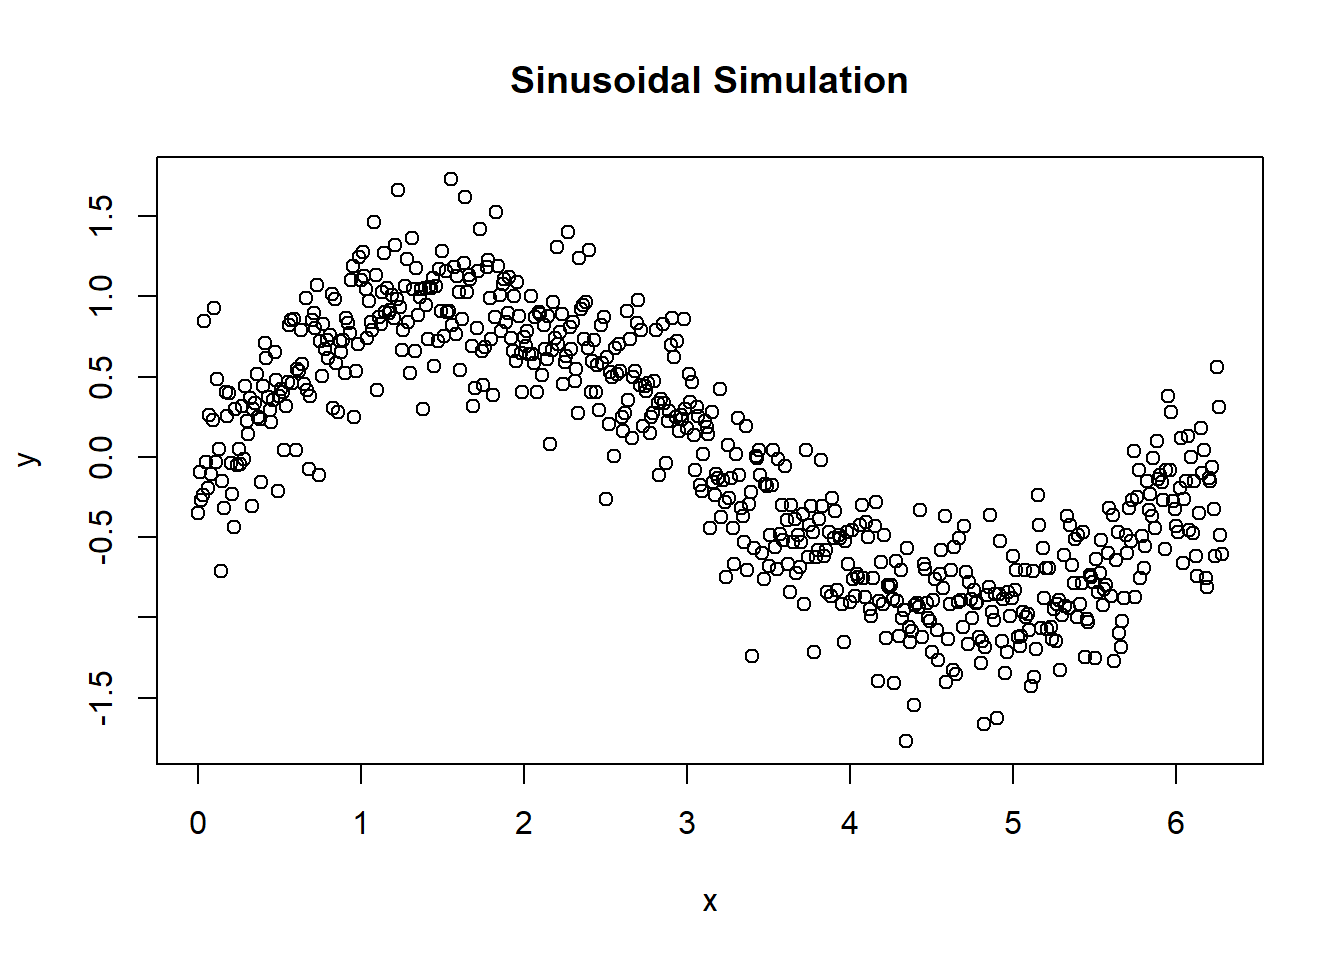
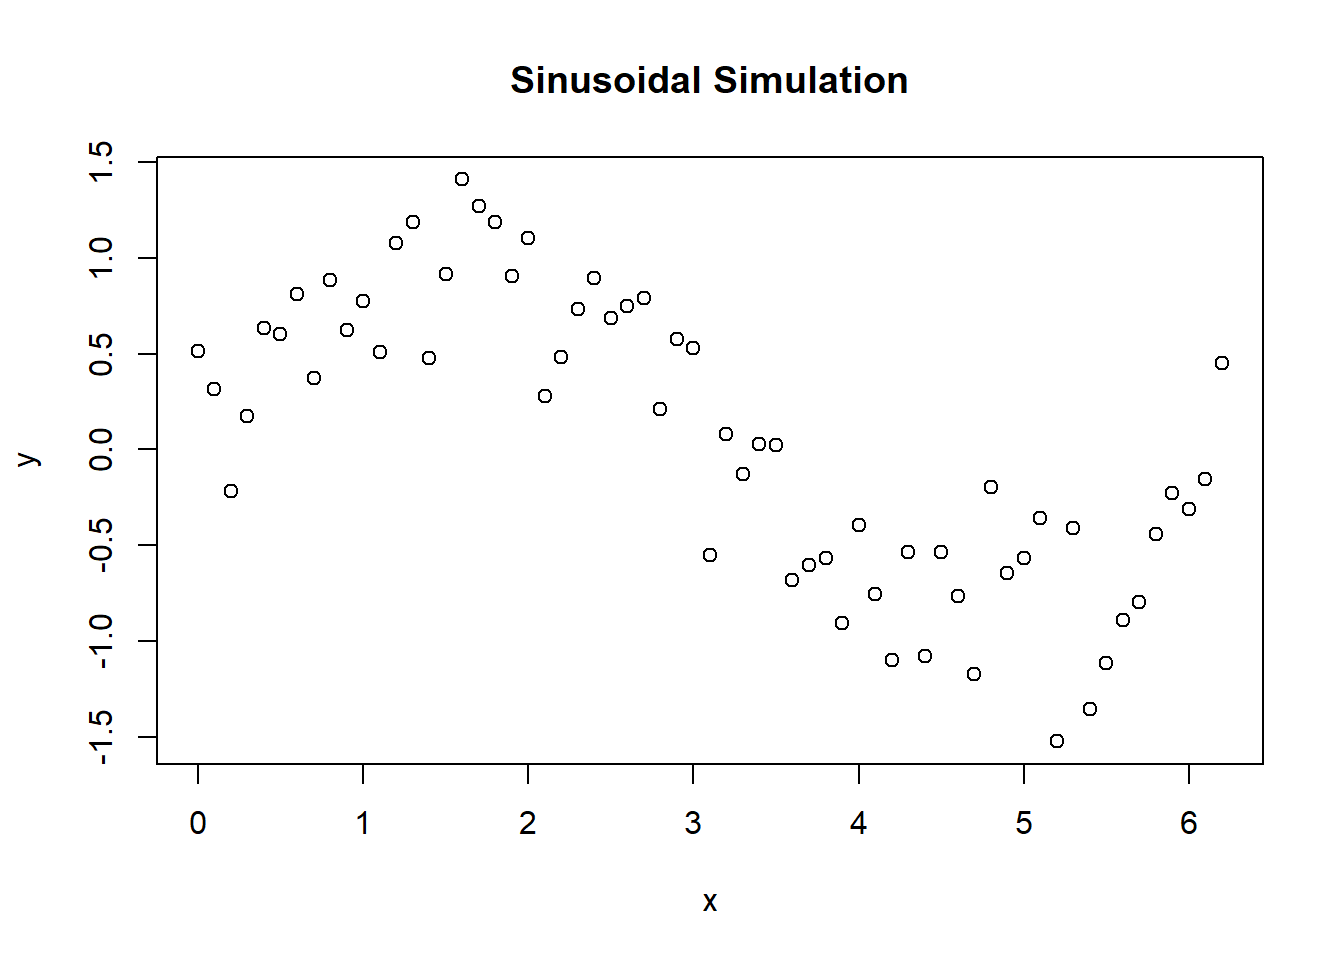
Add data and preprocessing

diff --git a/docs/index.html b/docs/index.html
@@ -7,7 +7,7 @@
 <meta name="viewport" content="width=device-width, initial-scale=1.0, user-scalable=yes">
 
 <meta name="author" content="Ashley Dickson">
-<meta name="dcterms.date" content="2026-11-04">
+<meta name="dcterms.date" content="2025-04-23">
 
 <title>Heart Failure Analysis</title>
 <style>
@@ -154,6 +154,10 @@ pre > code.sourceCode > span > a:first-child::before { text-decoration: underlin
   <li><a href="#environment" id="toc-environment" class="nav-link" data-scroll-target="#environment">Environment</a></li>
   <li><a href="#data" id="toc-data" class="nav-link" data-scroll-target="#data">Data</a></li>
   </ul></li>
+  <li><a href="#modelling" id="toc-modelling" class="nav-link" data-scroll-target="#modelling">Modelling</a>
+  <ul class="collapse">
+  <li><a href="#full-model" id="toc-full-model" class="nav-link" data-scroll-target="#full-model">Full Model</a></li>
+  </ul></li>
   </ul>
 </nav>
     </div>
@@ -180,7 +184,7 @@ pre > code.sourceCode > span > a:first-child::before { text-decoration: underlin
     <div>
     <div class="quarto-title-meta-heading">Published</div>
     <div class="quarto-title-meta-contents">
-      <p class="date">November 4, 2026</p>
+      <p class="date">April 23, 2025</p>
     </div>
   </div>
   
@@ -206,17 +210,12 @@ pre > code.sourceCode > span > a:first-child::before { text-decoration: underlin
 <span id="cb1-2"><a href="#cb1-2" aria-hidden="true" tabindex="-1"></a><span class="fu">library</span>(dplyr)</span>
 <span id="cb1-3"><a href="#cb1-3" aria-hidden="true" tabindex="-1"></a><span class="fu">library</span>(readxl)</span>
 <span id="cb1-4"><a href="#cb1-4" aria-hidden="true" tabindex="-1"></a><span class="fu">library</span>(tidyverse)</span>
-<span id="cb1-5"><a href="#cb1-5" aria-hidden="true" tabindex="-1"></a><span class="fu">library</span>(cardx)</span>
-<span id="cb1-6"><a href="#cb1-6" aria-hidden="true" tabindex="-1"></a><span class="fu">library</span>(gtsummary)</span>
-<span id="cb1-7"><a href="#cb1-7" aria-hidden="true" tabindex="-1"></a><span class="fu">library</span>(ggplot2)</span>
-<span id="cb1-8"><a href="#cb1-8" aria-hidden="true" tabindex="-1"></a><span class="fu">library</span>(GGally)</span>
-<span id="cb1-9"><a href="#cb1-9" aria-hidden="true" tabindex="-1"></a><span class="fu">library</span>(splines)</span>
-<span id="cb1-10"><a href="#cb1-10" aria-hidden="true" tabindex="-1"></a><span class="fu">library</span>(broom)</span>
-<span id="cb1-11"><a href="#cb1-11" aria-hidden="true" tabindex="-1"></a><span class="fu">library</span>(pROC)</span>
-<span id="cb1-12"><a href="#cb1-12" aria-hidden="true" tabindex="-1"></a><span class="fu">library</span>(caret)</span>
-<span id="cb1-13"><a href="#cb1-13" aria-hidden="true" tabindex="-1"></a><span class="fu">library</span>(corrplot)</span>
-<span id="cb1-14"><a href="#cb1-14" aria-hidden="true" tabindex="-1"></a><span class="fu">library</span>(CalibrationCurves)</span>
-<span id="cb1-15"><a href="#cb1-15" aria-hidden="true" tabindex="-1"></a><span class="fu">library</span>(knitr)</span></code><button title="Copy to Clipboard" class="code-copy-button"><i class="bi"></i></button></pre></div>
+<span id="cb1-5"><a href="#cb1-5" aria-hidden="true" tabindex="-1"></a><span class="fu">library</span>(gtsummary)</span>
+<span id="cb1-6"><a href="#cb1-6" aria-hidden="true" tabindex="-1"></a><span class="fu">library</span>(ggplot2)</span>
+<span id="cb1-7"><a href="#cb1-7" aria-hidden="true" tabindex="-1"></a><span class="fu">library</span>(splines)</span>
+<span id="cb1-8"><a href="#cb1-8" aria-hidden="true" tabindex="-1"></a><span class="fu">library</span>(broom)</span>
+<span id="cb1-9"><a href="#cb1-9" aria-hidden="true" tabindex="-1"></a><span class="fu">library</span>(pROC)</span>
+<span id="cb1-10"><a href="#cb1-10" aria-hidden="true" tabindex="-1"></a><span class="fu">library</span>(knitr)</span></code><button title="Copy to Clipboard" class="code-copy-button"><i class="bi"></i></button></pre></div>
 </div>
 </section>
 <section id="data" class="level2">
@@ -224,56 +223,91 @@ pre > code.sourceCode > span > a:first-child::before { text-decoration: underlin
 <p>Having loaded the various libraries needed, let’s import our heart failure data.</p>
 <div class="cell">
 <div class="sourceCode cell-code" id="cb2"><pre class="sourceCode r code-with-copy"><code class="sourceCode r"><span id="cb2-1"><a href="#cb2-1" aria-hidden="true" tabindex="-1"></a><span class="fu">setwd</span>(<span class="st">"C:/Users/rmhimdi/OneDrive - University College London/Documents/HeartFailure"</span>)</span>
-<span id="cb2-2"><a href="#cb2-2" aria-hidden="true" tabindex="-1"></a>df <span class="ot">&lt;-</span> <span class="fu">read_excel</span>(<span class="st">"simulateddata_LR_NL.xlsx"</span>)</span>
-<span id="cb2-3"><a href="#cb2-3" aria-hidden="true" tabindex="-1"></a><span class="fu">kable</span>(<span class="fu">head</span>(df))</span></code><button title="Copy to Clipboard" class="code-copy-button"><i class="bi"></i></button></pre></div>
+<span id="cb2-2"><a href="#cb2-2" aria-hidden="true" tabindex="-1"></a>df <span class="ot">&lt;-</span> <span class="fu">read_excel</span>(<span class="st">"simulateddata_LR_NL.xlsx"</span>)</span></code><button title="Copy to Clipboard" class="code-copy-button"><i class="bi"></i></button></pre></div>
+</div>
+<p>Discretise age and recode sex.</p>
+<div class="cell">
+<div class="sourceCode cell-code" id="cb3"><pre class="sourceCode r code-with-copy"><code class="sourceCode r"><span id="cb3-1"><a href="#cb3-1" aria-hidden="true" tabindex="-1"></a>df<span class="sc">$</span>outcome <span class="ot">&lt;-</span> <span class="fu">factor</span>(df<span class="sc">$</span>outcome, <span class="at">levels =</span> <span class="fu">c</span>(<span class="dv">0</span>, <span class="dv">1</span>), <span class="at">labels =</span> <span class="fu">c</span>(<span class="st">"Survived"</span>, <span class="st">"Died"</span>))</span>
+<span id="cb3-2"><a href="#cb3-2" aria-hidden="true" tabindex="-1"></a>df<span class="sc">$</span>age <span class="ot">&lt;-</span> <span class="fu">round</span>(df<span class="sc">$</span>age, <span class="dv">0</span>)</span>
+<span id="cb3-3"><a href="#cb3-3" aria-hidden="true" tabindex="-1"></a>df<span class="sc">$</span>sex <span class="ot">&lt;-</span> <span class="fu">factor</span>(df<span class="sc">$</span>sex, <span class="at">levels =</span> <span class="fu">c</span>(<span class="dv">0</span>, <span class="dv">1</span>), <span class="at">labels =</span> <span class="fu">c</span>(<span class="st">"Male"</span>, <span class="st">"Female"</span>)) </span>
+<span id="cb3-4"><a href="#cb3-4" aria-hidden="true" tabindex="-1"></a><span class="do">## Assuming Female = 1 since this seems mildly protective (cf. MAGGIC), but will need to check.</span></span></code><button title="Copy to Clipboard" class="code-copy-button"><i class="bi"></i></button></pre></div>
+</div>
+<p>Renaming varibles.</p>
+<div class="cell">
+<div class="sourceCode cell-code" id="cb4"><pre class="sourceCode r code-with-copy"><code class="sourceCode r"><span id="cb4-1"><a href="#cb4-1" aria-hidden="true" tabindex="-1"></a>df <span class="ot">&lt;-</span> </span>
+<span id="cb4-2"><a href="#cb4-2" aria-hidden="true" tabindex="-1"></a>  df <span class="sc">%&gt;%</span> </span>
+<span id="cb4-3"><a href="#cb4-3" aria-hidden="true" tabindex="-1"></a>  <span class="fu">rename</span>(</span>
+<span id="cb4-4"><a href="#cb4-4" aria-hidden="true" tabindex="-1"></a>    <span class="at">Outcome =</span> outcome,</span>
+<span id="cb4-5"><a href="#cb4-5" aria-hidden="true" tabindex="-1"></a>    <span class="at">Age =</span> age,</span>
+<span id="cb4-6"><a href="#cb4-6" aria-hidden="true" tabindex="-1"></a>    <span class="at">Sex =</span> sex,</span>
+<span id="cb4-7"><a href="#cb4-7" aria-hidden="true" tabindex="-1"></a>    <span class="at">Creatinine =</span> creatineDischarge,</span>
+<span id="cb4-8"><a href="#cb4-8" aria-hidden="true" tabindex="-1"></a>    <span class="at">Sodium =</span> sodiumDischarge,</span>
+<span id="cb4-9"><a href="#cb4-9" aria-hidden="true" tabindex="-1"></a>    <span class="at">Potassium =</span> potassiumDischarge,</span>
+<span id="cb4-10"><a href="#cb4-10" aria-hidden="true" tabindex="-1"></a>    <span class="at">Urea =</span> ureaDischarge,</span>
+<span id="cb4-11"><a href="#cb4-11" aria-hidden="true" tabindex="-1"></a>    <span class="at">S_bp =</span>  sbpAdmission,</span>
+<span id="cb4-12"><a href="#cb4-12" aria-hidden="true" tabindex="-1"></a>    <span class="at">HR =</span> hrAdmission,</span>
+<span id="cb4-13"><a href="#cb4-13" aria-hidden="true" tabindex="-1"></a>    <span class="at">Hb =</span> hbDischarge,</span>
+<span id="cb4-14"><a href="#cb4-14" aria-hidden="true" tabindex="-1"></a>    <span class="at">Diabetes =</span> diabetes,</span>
+<span id="cb4-15"><a href="#cb4-15" aria-hidden="true" tabindex="-1"></a>    <span class="at">COPD =</span> copd,</span>
+<span id="cb4-16"><a href="#cb4-16" aria-hidden="true" tabindex="-1"></a>    <span class="at">IHD =</span> ihd, </span>
+<span id="cb4-17"><a href="#cb4-17" aria-hidden="true" tabindex="-1"></a>    <span class="at">ValveDisease =</span> valveDisease,</span>
+<span id="cb4-18"><a href="#cb4-18" aria-hidden="true" tabindex="-1"></a>    <span class="at">NYHA_class =</span> nyha,</span>
+<span id="cb4-19"><a href="#cb4-19" aria-hidden="true" tabindex="-1"></a>    <span class="at">PeripheralOedema =</span> peripheralOedema,</span>
+<span id="cb4-20"><a href="#cb4-20" aria-hidden="true" tabindex="-1"></a>    <span class="at">AF =</span> af,</span>
+<span id="cb4-21"><a href="#cb4-21" aria-hidden="true" tabindex="-1"></a>    <span class="at">eGFR =</span> egfr_full</span>
+<span id="cb4-22"><a href="#cb4-22" aria-hidden="true" tabindex="-1"></a>  )</span></code><button title="Copy to Clipboard" class="code-copy-button"><i class="bi"></i></button></pre></div>
+</div>
+<p>Inspect the processed data.</p>
+<div class="cell">
+<div class="sourceCode cell-code" id="cb5"><pre class="sourceCode r code-with-copy"><code class="sourceCode r"><span id="cb5-1"><a href="#cb5-1" aria-hidden="true" tabindex="-1"></a><span class="fu">kable</span>(<span class="fu">head</span>(df))</span></code><button title="Copy to Clipboard" class="code-copy-button"><i class="bi"></i></button></pre></div>
 <div class="cell-output-display">
 <table class="caption-top table table-sm table-striped small">
 <colgroup>
-<col style="width: 4%">
+<col style="width: 6%">
 <col style="width: 2%">
-<col style="width: 9%">
-<col style="width: 8%">
-<col style="width: 10%">
 <col style="width: 7%">
-<col style="width: 6%">
-<col style="width: 6%">
-<col style="width: 6%">
-<col style="width: 2%">
 <col style="width: 4%">
+<col style="width: 7%">
+<col style="width: 5%">
+<col style="width: 3%">
 <col style="width: 2%">
-<col style="width: 2%">
+<col style="width: 3%">
+<col style="width: 4%">
 <col style="width: 6%">
+<col style="width: 3%">
 <col style="width: 2%">
 <col style="width: 9%">
-<col style="width: 1%">
-<col style="width: 5%">
+<col style="width: 7%">
+<col style="width: 12%">
+<col style="width: 2%">
+<col style="width: 6%">
 </colgroup>
 <thead>
 <tr class="header">
-<th style="text-align: right;">outcome</th>
-<th style="text-align: right;">age</th>
-<th style="text-align: right;">creatineDischarge</th>
-<th style="text-align: right;">sodiumDischarge</th>
-<th style="text-align: right;">potassiumDischarge</th>
-<th style="text-align: right;">ureaDischarge</th>
-<th style="text-align: right;">sbpAdmission</th>
-<th style="text-align: right;">hrAdmission</th>
-<th style="text-align: right;">hbDischarge</th>
-<th style="text-align: right;">sex</th>
-<th style="text-align: right;">diabetes</th>
-<th style="text-align: right;">copd</th>
-<th style="text-align: right;">ihd</th>
-<th style="text-align: right;">valveDisease</th>
-<th style="text-align: right;">nyha</th>
-<th style="text-align: right;">peripheralOedema</th>
-<th style="text-align: right;">af</th>
-<th style="text-align: right;">egfr_full</th>
+<th style="text-align: left;">Outcome</th>
+<th style="text-align: right;">Age</th>
+<th style="text-align: right;">Creatinine</th>
+<th style="text-align: right;">Sodium</th>
+<th style="text-align: right;">Potassium</th>
+<th style="text-align: right;">Urea</th>
+<th style="text-align: right;">S_bp</th>
+<th style="text-align: right;">HR</th>
+<th style="text-align: right;">Hb</th>
+<th style="text-align: left;">Sex</th>
+<th style="text-align: right;">Diabetes</th>
+<th style="text-align: right;">COPD</th>
+<th style="text-align: right;">IHD</th>
+<th style="text-align: right;">ValveDisease</th>
+<th style="text-align: right;">NYHA_class</th>
+<th style="text-align: right;">PeripheralOedema</th>
+<th style="text-align: right;">AF</th>
+<th style="text-align: right;">eGFR</th>
 </tr>
 </thead>
 <tbody>
 <tr class="odd">
-<td style="text-align: right;">0</td>
-<td style="text-align: right;">62.3</td>
+<td style="text-align: left;">Survived</td>
+<td style="text-align: right;">62</td>
 <td style="text-align: right;">76.99999</td>
 <td style="text-align: right;">138</td>
 <td style="text-align: right;">4.2</td>
@@ -281,7 +315,7 @@ pre > code.sourceCode > span > a:first-child::before { text-decoration: underlin
 <td style="text-align: right;">113</td>
 <td style="text-align: right;">119</td>
 <td style="text-align: right;">11.1</td>
-<td style="text-align: right;">0</td>
+<td style="text-align: left;">Male</td>
 <td style="text-align: right;">1</td>
 <td style="text-align: right;">0</td>
 <td style="text-align: right;">1</td>
@@ -292,8 +326,8 @@ pre > code.sourceCode > span > a:first-child::before { text-decoration: underlin
 <td style="text-align: right;">88.70592</td>
 </tr>
 <tr class="even">
-<td style="text-align: right;">1</td>
-<td style="text-align: right;">90.2</td>
+<td style="text-align: left;">Died</td>
+<td style="text-align: right;">90</td>
 <td style="text-align: right;">142.00003</td>
 <td style="text-align: right;">146</td>
 <td style="text-align: right;">4.4</td>
@@ -301,7 +335,7 @@ pre > code.sourceCode > span > a:first-child::before { text-decoration: underlin
 <td style="text-align: right;">98</td>
 <td style="text-align: right;">78</td>
 <td style="text-align: right;">12.1</td>
-<td style="text-align: right;">0</td>
+<td style="text-align: left;">Male</td>
 <td style="text-align: right;">0</td>
 <td style="text-align: right;">0</td>
 <td style="text-align: right;">1</td>
@@ -312,8 +346,8 @@ pre > code.sourceCode > span > a:first-child::before { text-decoration: underlin
 <td style="text-align: right;">40.60656</td>
 </tr>
 <tr class="odd">
-<td style="text-align: right;">1</td>
-<td style="text-align: right;">83.6</td>
+<td style="text-align: left;">Died</td>
+<td style="text-align: right;">84</td>
 <td style="text-align: right;">143.00003</td>
 <td style="text-align: right;">141</td>
 <td style="text-align: right;">4.0</td>
@@ -321,7 +355,7 @@ pre > code.sourceCode > span > a:first-child::before { text-decoration: underlin
 <td style="text-align: right;">132</td>
 <td style="text-align: right;">102</td>
 <td style="text-align: right;">13.7</td>
-<td style="text-align: right;">0</td>
+<td style="text-align: left;">Male</td>
 <td style="text-align: right;">0</td>
 <td style="text-align: right;">1</td>
 <td style="text-align: right;">0</td>
@@ -332,8 +366,8 @@ pre > code.sourceCode > span > a:first-child::before { text-decoration: underlin
 <td style="text-align: right;">40.90517</td>
 </tr>
 <tr class="even">
-<td style="text-align: right;">0</td>
-<td style="text-align: right;">74.6</td>
+<td style="text-align: left;">Survived</td>
+<td style="text-align: right;">75</td>
 <td style="text-align: right;">80.00000</td>
 <td style="text-align: right;">137</td>
 <td style="text-align: right;">4.0</td>
@@ -341,7 +375,7 @@ pre > code.sourceCode > span > a:first-child::before { text-decoration: underlin
 <td style="text-align: right;">152</td>
 <td style="text-align: right;">100</td>
 <td style="text-align: right;">11.6</td>
-<td style="text-align: right;">1</td>
+<td style="text-align: left;">Female</td>
 <td style="text-align: right;">0</td>
 <td style="text-align: right;">0</td>
 <td style="text-align: right;">0</td>
@@ -352,8 +386,8 @@ pre > code.sourceCode > span > a:first-child::before { text-decoration: underlin
 <td style="text-align: right;">60.71780</td>
 </tr>
 <tr class="odd">
-<td style="text-align: right;">0</td>
-<td style="text-align: right;">83.5</td>
+<td style="text-align: left;">Survived</td>
+<td style="text-align: right;">84</td>
 <td style="text-align: right;">123.99999</td>
 <td style="text-align: right;">139</td>
 <td style="text-align: right;">4.2</td>
@@ -361,7 +395,7 @@ pre > code.sourceCode > span > a:first-child::before { text-decoration: underlin
 <td style="text-align: right;">201</td>
 <td style="text-align: right;">46</td>
 <td style="text-align: right;">11.8</td>
-<td style="text-align: right;">1</td>
+<td style="text-align: left;">Female</td>
 <td style="text-align: right;">0</td>
 <td style="text-align: right;">0</td>
 <td style="text-align: right;">1</td>
@@ -372,8 +406,8 @@ pre > code.sourceCode > span > a:first-child::before { text-decoration: underlin
 <td style="text-align: right;">35.78796</td>
 </tr>
 <tr class="even">
-<td style="text-align: right;">0</td>
-<td style="text-align: right;">78.5</td>
+<td style="text-align: left;">Survived</td>
+<td style="text-align: right;">78</td>
 <td style="text-align: right;">118.00001</td>
 <td style="text-align: right;">140</td>
 <td style="text-align: right;">4.7</td>
@@ -381,7 +415,7 @@ pre > code.sourceCode > span > a:first-child::before { text-decoration: underlin
 <td style="text-align: right;">104</td>
 <td style="text-align: right;">64</td>
 <td style="text-align: right;">10.6</td>
-<td style="text-align: right;">1</td>
+<td style="text-align: left;">Female</td>
 <td style="text-align: right;">0</td>
 <td style="text-align: right;">0</td>
 <td style="text-align: right;">0</td>
@@ -395,6 +429,12 @@ pre > code.sourceCode > span > a:first-child::before { text-decoration: underlin
 </table>
 </div>
 </div>
+</section>
+</section>
+<section id="modelling" class="level1">
+<h1>Modelling</h1>
+<section id="full-model" class="level2">
+<h2 class="anchored" data-anchor-id="full-model">Full Model</h2>
 <p>This is a Quarto website. To learn more about Quarto websites visit <a href="https://quarto.org/docs/websites" class="uri">https://quarto.org/docs/websites</a>.</p>
 
 

diff --git a/docs/about.html b/docs/about.html
@@ -166,9 +166,9 @@ pre > code.sourceCode > span > a:first-child::before { text-decoration: underlin
 </header>
 
 
-<p>About this site</p>
+<p>This site has been set up as a temporary home for this analysis such that it can be shared with Clare, aka. Mein Otter.</p>
 <div class="cell">
-<div class="sourceCode cell-code" id="cb1"><pre class="sourceCode r code-with-copy"><code class="sourceCode r"><span id="cb1-1"><a href="#cb1-1" aria-hidden="true" tabindex="-1"></a>x <span class="ot">=</span> <span class="fu">seq</span>(<span class="dv">0</span>, <span class="dv">2</span><span class="sc">*</span>pi, <span class="at">by =</span> <span class="fl">0.01</span>)</span>
+<div class="sourceCode cell-code" id="cb1"><pre class="sourceCode r code-with-copy"><code class="sourceCode r"><span id="cb1-1"><a href="#cb1-1" aria-hidden="true" tabindex="-1"></a>x <span class="ot">=</span> <span class="fu">seq</span>(<span class="dv">0</span>, <span class="dv">2</span><span class="sc">*</span>pi, <span class="at">by =</span> <span class="fl">0.1</span>)</span>
 <span id="cb1-2"><a href="#cb1-2" aria-hidden="true" tabindex="-1"></a>y <span class="ot">=</span> <span class="fu">sin</span>(x) <span class="sc">+</span> <span class="fu">rnorm</span>(<span class="fu">length</span>(x), <span class="dv">0</span>, <span class="fl">0.3</span>)</span>
 <span id="cb1-3"><a href="#cb1-3" aria-hidden="true" tabindex="-1"></a><span class="fu">plot</span>(x,y) <span class="sc">+</span></span>
 <span id="cb1-4"><a href="#cb1-4" aria-hidden="true" tabindex="-1"></a>  <span class="fu">title</span>(<span class="st">"Sinusoidal Simulation"</span>)</span></code><button title="Copy to Clipboard" class="code-copy-button"><i class="bi"></i></button></pre></div>
